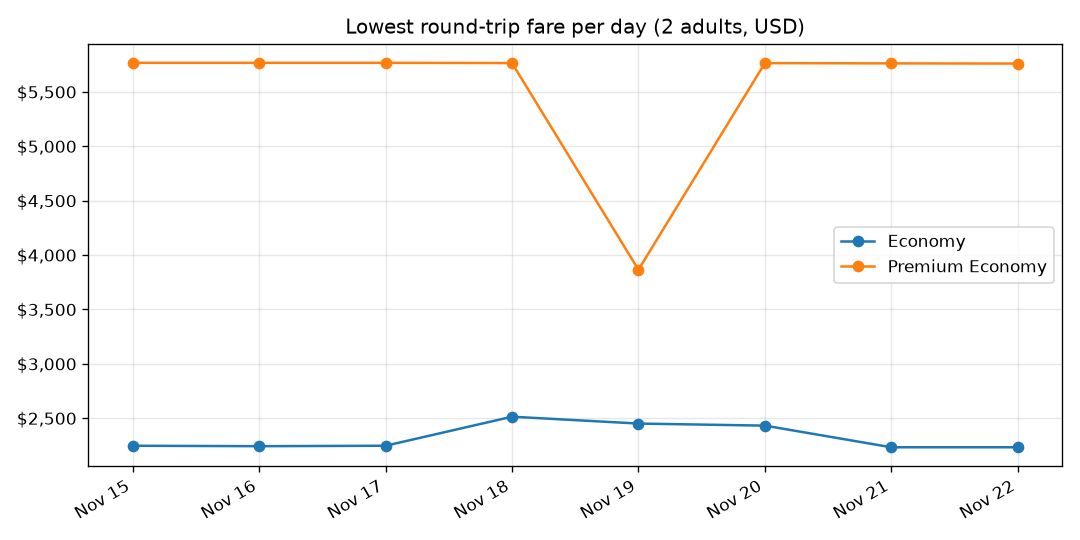
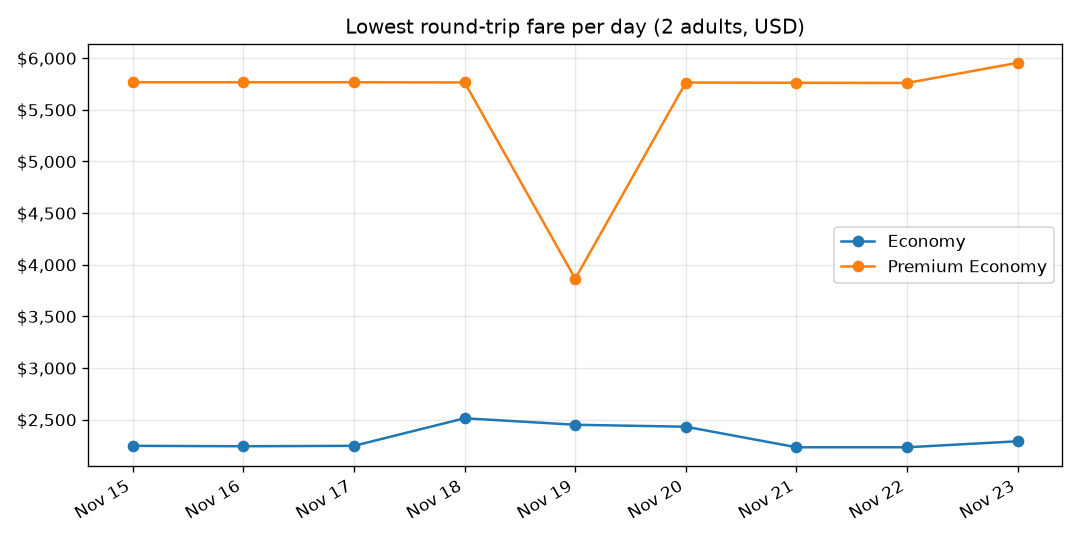
Update fare tracking data

diff --git a/SUMMARY.md b/SUMMARY.md
@@ -3,41 +3,39 @@
 Trip: out Tue Jun 15, Wed Jun 16, Thu Jun 17; back Sat Jun 19, Sun Jun 20, Mon Jun 21 · 2 adults · up to 1 stop(s) · American, United, Aer Lingus, British Airways, Virgin Atlantic
 Outbound must land in London by 10:00 AM on Jun 18.
 
-**Last run:** 2026-11-22T18:07:53Z UTC · 18 searches ok, 0 not bookable yet, 0 failed
+**Last run:** 2026-11-23T22:17:53Z UTC · 18 searches ok, 0 not bookable yet, 0 failed
 
 Prices are the round-trip fare for the whole party as quoted by Ignav (USD).
 
 ## Economy
 
-**Today's best: $2,232** · British Airways · out Tue Jun 15 (ORD-YUL-LHR, lands 09:40) · back Mon Jun 21 (LHR-DUB-ORD)
+**Today's best: $2,290** · British Airways · out Tue Jun 15 (ORD-YUL-LHR, lands 09:40) · back Mon Jun 21 (LHR-DUB-ORD)
 
-vs last check: = $0 · vs 7-day avg ($2,337): -4.5% · lowest seen: $2,232 on 2026-11-21 · days tracked: 8
-
-🔔 **Lowest price seen so far.**
+vs last check: ▲ $58 · vs 7-day avg ($2,335): -1.9% · lowest seen: $2,232 on 2026-11-21 · days tracked: 9
 
 | Out \ Back | Sat Jun 19 | Sun Jun 20 | Mon Jun 21 |
 |---|---|---|---|
-| Tue Jun 15 | $2,491 AA | $2,558 AA | $2,232 BA |
-| Wed Jun 16 | $2,511 BA | $2,558 BA | — |
-| Thu Jun 17 | $2,651 AA | $2,698 AA | $2,588 AA |
+| Tue Jun 15 | — | $2,727 UA | $2,290 BA |
+| Wed Jun 16 | $2,511 BA | $2,727 BA | $2,444 BA |
+| Thu Jun 17 | $2,651 AA | — | — |
 
-Cheapest today by airline: British Airways $2,232 · American $2,448 · United $2,448
+Cheapest today by airline: British Airways $2,290 · United $2,444 · American $2,444
 No qualifying fares today: Aer Lingus, Virgin Atlantic
 
 ## Premium Economy
 
-**Today's best: $5,759** · British Airways · out Tue Jun 15 (ORD-MCO-LGW, lands 06:50) · back Sat Jun 19 (LGW-MCO-ORD)
-Fare type: **Premium Economy** via American · [booking link](https://www.aa.com/goto/metasearch?ITEN=GOOGLE,HUi1WuY_zsC4ABZvJgBD------vtdy13-n1AAAAAGsDL-oApI70A,US,roundTrip,4,A2S0C0I0Y0L0,1,ORD,0,LGW,0,false,1813077480000,false,1813411800000,0,0,1780.00,1,%23AA%7C2288%7CH%7CORD%7CMCO%7C1813077480000%7C0%7COHX9C9P5%23AA%7C7011%7CP%7CMCO%7CLGW%7C1813094100000%7C0%7COHX9C9P5%23AA%7C6931%7CP%7CLGW%7CMCO%7C1813411800000%7C1%7COKW9C9P5%23AA%7C1611%7CH%7CMCO%7CORD%7C1813487400000%7C1%7COKW9C9P5&locale=en_US&c=MSE%7CGFS%7C20261122%7CDST%7CDST%7CWEB%7C%7CHPPH%7CHPPH%7CGFSE-0_1_0_2&dp=true&gclid=AAcRjHLAGcsupwcmi5mzfLQugNJIUuEEB95hSxvm2wDb3TgVLa_6cFGEEGYHPomqyfWixY_kdLEUsN70vztGu5CFRdzAB8TaXCFOl8AaEk2yvmOFRrw&gclsrc=gf)
+**Today's best: $5,954** · American · out Tue Jun 15 (ORD-LHR, lands 10:30) · back Sun Jun 20 (LHR-ORD)
+Fare type: **Premium Economy** via American · [booking link](https://www.aa.com/goto/metasearch?ITEN=GOOGLE,HK_aB_a4hx6cAACrMQBD--------yseiu13AAAAAGsEu-sN-LS4A,US,roundTrip,4,A2S0C0I0Y0L0,0,ORD,0,LHR,0,false,1813110000000,false,1813494600000,0,0,1912.00,1,%23AA%7C54%7CP%7CORD%7CLHR%7C1813110000000%7C0%7CPNX5A5S5%23AA%7C7017%7CP%7CLHR%7CORD%7C1813494600000%7C1%7CPNW6A0S5&locale=en_US&c=MSE%7CGFS%7C20261123%7CDST%7CDST%7CWEB%7C%7CPP%7CPP%7CGFSE-0_1_0_2&dp=true&gclid=AAcRjHKxWg1LLYfmUuBMcTlCUUiTAFu6x6Bw-_eUOgcKNFwth997PV3EGWJIp9hnevKfaFnzPjOBbno1zPNg6eR79jjSP4o8BZdwATNWlSLo9HuJ5CU&gclsrc=gf)
 
-vs last check: ▼ $2 · vs 7-day avg ($5,493): +4.8% · lowest seen: $3,864 on 2026-11-19 · days tracked: 8
+vs last check: ▲ $195 · vs 7-day avg ($5,492): +8.4% · lowest seen: $3,864 on 2026-11-19 · days tracked: 9
 
 | Out \ Back | Sat Jun 19 | Sun Jun 20 | Mon Jun 21 |
 |---|---|---|---|
-| Tue Jun 15 | $5,759 BA | $5,954 AA | $5,954 AA |
-| Wed Jun 16 | $5,759 BA | $5,954 BA | $5,954 BA |
-| Thu Jun 17 | $6,860 AA | $7,204 AA | $7,204 AA |
+| Tue Jun 15 | — | $5,954 AA | $5,954 AA |
+| Wed Jun 16 | $6,838 UA | — | — |
+| Thu Jun 17 | $6,860 AA | — | $7,204 AA |
 
-Cheapest today by airline: British Airways $5,759 · American $5,954 · United $6,440
+Cheapest today by airline: American $5,954 · British Airways $5,954 · United $6,838
 No qualifying fares today: Aer Lingus, Virgin Atlantic
 
 ## Trend
